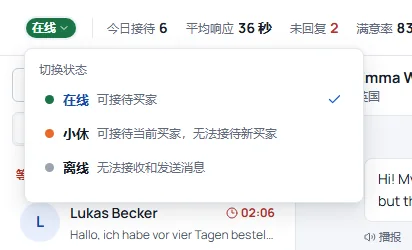
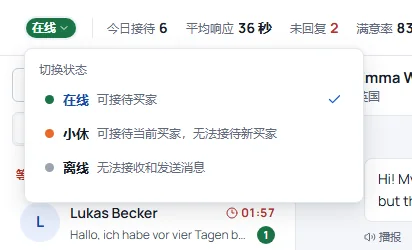
feat(工作台): 会话列表加未读提醒（D-96），修自由练习进线后聊天区空白
- 会话列表预览行右端、等待计时正下方显示绿色未读条数（买家发来还没看的消息）；
  正在看的不显示、点开清零，“最近联系”里不显示；侧栏角标和顶栏“未回复”不变
- 已读位置存云端：迁移 046 加 conversations.student_read_at（上线前的会话都算看过），
  GET /v1/conversations 每条返回 unreadCount，新增 POST /v1/conversations/:id/read；
  工作台正在看的会话在打开、聊天区多了买家消息时记已读，买家没回完不记
- 修自由练习进线：开场白在后台生成，新会话被自动打开时消息还没落库，生成完只刷新了列表，
  聊天区要等 15 秒轮询（计时在走、聊天区空白）；任务、自由练习进线改为共用 openInBackground，
  生成完这条会话开着就把开场白并进聊天区
- 使用帮助学生端改文字、重拍 4 张工作台截图；架构文档补变更记录
- 测试：API 215（新增未读用例）、前端 15、domain 46、contracts 9、desktop 4

Changed region(s): [[0.5534, 0.896, 0.6699, 0.98], [0.5825, 0.812, 0.6699, 0.868]]

diff --git a/docs/architecture.html b/docs/architecture.html
@@ -258,7 +258,7 @@ button.theme { background: var(--surface); color: var(--text); border: 1px solid
 <tr><td>auth</td><td>全部</td><td class="mono">auth/login · refresh · logout · change-password · me</td><td>登录、令牌轮换、改密</td></tr>
 <tr><td>classes</td><td>教师 / 管理员</td><td class="mono">classes · classes/:id/students(/import) · students/:id(PATCH/DELETE?confirm= · /reset-password) · classes/:id(DELETE?confirm=) · admin/teachers(POST · /:id DELETE?successorId=) · admin/classes/:id/teachers(PUT)</td><td>班级、学生导入/启停/改名/转班/删除/重置密码、新建教师、指定班主任与任课教师</td></tr>
 <tr><td>tasks</td><td>教师 / 学生</td><td class="mono">tasks · tasks/:id · student/tasks</td><td>任务新建下发、开放时间、学生任务列表</td></tr>
-<tr><td>conversations</td><td>学生</td><td class="mono">conversations · :id/opening · :id/reply · :id/messages · :id/close · :id/voice-messages · :id/asr · messages/:mid/tts · messages/:mid/translate · :id/cards · :id/attachment-messages · :id/orders · orders/:id/tool-cards · student/workbench-stats · student/guidance</td><td>买家对话主链路、语音、卡片、附件、翻译、工作台 KPI、教师指导通知；订单页工具卡片（付款提醒 / 物流通知）与会话结束后的短跟进（D-56）；邮件类场景开邮件会话（D-58）</td></tr>
+<tr><td>conversations</td><td>学生</td><td class="mono">conversations · :id/opening · :id/reply · :id/messages · :id/read · :id/close · :id/voice-messages · :id/asr · messages/:mid/tts · messages/:mid/translate · :id/cards · :id/attachment-messages · :id/orders · orders/:id/tool-cards · student/workbench-stats · student/guidance</td><td>买家对话主链路、语音、卡片、附件、翻译、工作台 KPI、教师指导通知；会话列表带未读数，<code>:id/read</code> 记已读（D-96）；订单页工具卡片（付款提醒 / 物流通知）与会话结束后的短跟进（D-56）；邮件类场景开邮件会话（D-58）</td></tr>
 <tr><td>orders</td><td>学生</td><td class="mono">student/orders · orders/:id · orders/:id/suggestions · student/reviews · student/assessments</td><td>订单与评价、AI 三版话术、成绩记录</td></tr>
 <tr><td>catalog</td><td>全部（按角色）</td><td class="mono">catalog/scenarios(PATCH 启停/剧本) · personas(/import) · phrases · my-phrases · forbidden-terms · mail-templates · store/products · store/coupons · mail/submissions · mail/assist · mail/replies</td><td>场景库、画像库、商品库、词库与话术、邮件实训</td></tr>
 <tr><td>teacher</td><td>教师 / 管理员</td><td class="mono">teacher/overview · tracking · conversations/:id/messages · conversations/:id/intervene · reports · assessments(/:id 逐维度复核)</td><td>数据总览、实时监控与介入、回放复核（逐维度改分、教师评语单独存）、考核报表</td></tr>
@@ -301,7 +301,7 @@ button.theme { background: var(--surface); color: var(--text); border: 1px solid
 <tr><th>领域</th><th>表</th><th>说明</th></tr>
 <tr><td>账号</td><td class="mono">users · classes · teacher_classes · refresh_tokens · login_failures · audit_log</td><td>users.role ∈ student/teacher/admin；学生 users.class_id 归属一个班；<b>班主任只记 classes.head_teacher_id，teacher_classes 只放任课教师</b>（两边不重复）；login_failures 记登录失败计数与锁定</td></tr>
 <tr><td>教学</td><td class="mono">tasks · task_classes · task_progress · scenarios · persona_templates · announcements · baseline_assessments</td><td>任务含 persona_rule、scoring_weights、time_limit_minutes、start_at、deadline</td></tr>
-<tr><td>实训</td><td class="mono">conversations · conversation_messages · orders · store_products · store_coupons · mail_submissions · mail_replies · student_phrases · review_replies · mail_drafts · read_marks</td><td>conversations.state（jsonb）存观察员评估结果（得分、满意度走势、情绪、阶段，含 studentTurns 计数；D-50 前的老会话还留着已弃用的 directive / memory）；conversations.persona 存画像快照（售前含 interestedProduct）；scenarios.script 存场景剧本；消息 kind 支持 text/voice/image/video/file/card，以及工具卡片 payment_reminder / logistics_update（D-56）和任务邮件 mail（D-58）；conversations.channel 区分聊天 / 邮件会话，service_rating 存买家服务评价 1–5 星（D-54，不是消息；D-90 起按买家走的原因限定区间），tool_followup 存工具跟进状态（卡片、开始、结束原因），buyer_ledger 存买家的两本账（D-90：来办的事、还能忍几次、每轮判断 judgements 带被判的学生消息 id、怎么走的 exit）；conversation_messages.buyer_note 存买家这一轮开头的判断（只给买家提示词用，接口不返回）</td></tr>
+<tr><td>实训</td><td class="mono">conversations · conversation_messages · orders · store_products · store_coupons · mail_submissions · mail_replies · student_phrases · review_replies · mail_drafts · read_marks</td><td>conversations.state（jsonb）存观察员评估结果（得分、满意度走势、情绪、阶段，含 studentTurns 计数；D-50 前的老会话还留着已弃用的 directive / memory）；conversations.persona 存画像快照（售前含 interestedProduct）；scenarios.script 存场景剧本；消息 kind 支持 text/voice/image/video/file/card，以及工具卡片 payment_reminder / logistics_update（D-56）和任务邮件 mail（D-58）；conversations.channel 区分聊天 / 邮件会话，service_rating 存买家服务评价 1–5 星（D-54，不是消息；D-90 起按买家走的原因限定区间），tool_followup 存工具跟进状态（卡片、开始、结束原因），student_read_at 存学生看到哪了（D-96：之后的买家消息算未读），buyer_ledger 存买家的两本账（D-90：来办的事、还能忍几次、每轮判断 judgements 带被判的学生消息 id、怎么走的 exit）；conversation_messages.buyer_note 存买家这一轮开头的判断（只给买家提示词用，接口不返回）</td></tr>
 <tr><td>评估与计量</td><td class="mono">assessments · conversation_metrics · voice_metrics · llm_usage</td><td>八项评分与评语（含 prompt_version、model、evidence；evidence 里留响应时效明细）；首字耗时、输出速度、语音耗时（ASR 记音频时长 audio_ms）用于验收报表；llm_usage 记每次模型调用的用途、档案、tokens、费用、结果、是否走备用</td></tr>
 <tr><td>配置</td><td class="mono">llm_profiles · app_settings · content_terms</td><td>llm_profiles 存模型档案（地址、加密 Key、模型、请求头/请求体、深度思考 thinking（开关、档位、该厂商的参数写法）、单价、测试结果、是否默认）；app_settings 存 llm_routing（用途分配、观察员频率）、voice（语音档案，Key 加密）、quota（月度金额/tokens 额度）、备份计划、brand（平台名称与标识）；content_terms 存违规词与标准话术</td></tr>
 </table></div>
@@ -312,7 +312,7 @@ button.theme { background: var(--surface); color: var(--text); border: 1px solid
 <tr><th>位置</th><th>内容</th><th>状态</th></tr>
 <tr><td>云端 PostgreSQL</td><td>账号、班级、任务、会话与消息、订单、评分、邮件、配置、审计、验收指标</td><td><span class="tag t-ok">已实现</span></td></tr>
 <tr><td>云端文件卷</td><td>商品图、语音消息、附件、TTS 缓存（uploads）；备份文件</td><td><span class="tag t-warn">部分</span> 备份目录未挂卷，未推送对象存储</td></tr>
-<tr><td>云端（2026-10-12 迁入）</td><td>差评回复记录、邮件草稿、邮件已读、指导通知已读</td><td><span class="tag t-ok">已实现</span> 旧版本存在本机的数据，学生首次进入页面时自动上传并删除本机副本</td></tr>
+<tr><td>云端（2026-10-12 迁入）</td><td>差评回复记录、邮件草稿、邮件已读、指导通知已读；会话已读位置（D-96，conversations.student_read_at）</td><td><span class="tag t-ok">已实现</span> 旧版本存在本机的数据，学生首次进入页面时自动上传并删除本机副本</td></tr>
 <tr><td>客户端本机（保留）</td><td>栏宽、自动翻译开关等界面偏好；登录令牌（改用 safeStorage）</td><td>—</td></tr>
 </table></div>
 
@@ -413,6 +413,8 @@ button.theme { background: var(--surface); color: var(--text); border: 1px solid
 <h2 id="changelog">12. 变更记录</h2>
 <div class="table-wrap"><table>
 <tr><th>日期</th><th>变更</th></tr>
+<tr><td>2026-10-23</td><td>修自由练习进线后聊天区空白（只改前端，无迁移、无接口变化）：自动进线的买家开场白在后台生成，手上没有别的会话时新会话会被自动打开；任务进线生成完会把开场白刷进开着的聊天区，自由练习进线只刷新了列表，聊天区要等 15 秒一次的消息轮询，期间列表已经显示买家的话、等待计时在走。两条进线路径改为共用 <code>LiveWorkbench</code> 的 <code>openInBackground</code>（生成完刷新列表；这条会话开着就拉消息、用 <code>mergeRows</code> 并进聊天区）。浏览器里用拦截接口模拟 2.5 秒生成核对：改前列表出现开场白 1.5 秒后聊天区仍为空、15 秒后才出现，改后同时出现；任务进线同样核过</td></tr>
+<tr><td>2026-10-23</td><td>工作台会话未读提醒（D-96）：迁移 046（conversations 加 <code>student_read_at</code>，上线前的会话都记为看过）。<code>GET /v1/conversations</code> 每条多返回 <code>unreadCount</code>（学生上次看之后买家发了几条，只数 sender = buyer）；新增 <code>POST /v1/conversations/:id/read</code>（只能标自己的会话，记为 now()）。前端：<code>LiveWorkbench</code> 正在看的会话在打开时、聊天区多了买家消息时记一次已读，买家流式回复没回完不记（服务端回完才落库）；标记完成前发出的列表请求带回的旧未读数按 0 算。<code>ConversationRail</code> 在预览行右端、等待计时正下方显示绿色数字（<code>.wbk-unread</code>，<code>--c-ok</code>），正在看的和“最近联系”里的不显示。侧栏工作台角标仍是“未回复”数。使用帮助学生端改文字并重拍 s-workbench、s-wb-product、s-wb-ended、s-wb-status，学生端 PDF 重新导出。测试：API 215、前端 15</td></tr>
 <tr><td>2026-10-23</td><td>手册 PDF 目录与页码（D-94，设计稿 docs/design/p27-manual-toc 的 C 版），只改前端：<code>HelpCenter.tsx</code> 的 <code>Book</code> 目录改为双栏（<code>.help-book-toc .cols</code>，每章一块），章、节都是 <code>&lt;a href="#help-book-…"&gt;</code>，整本里的章、节另用 <code>bookAnchor</code> 生成 id（和屏幕上那份的节 id 分开，免得重名）；Chromium 打印成 PDF 时变成内部链接。页码：目录和各章设命名页 <code>page: help-body</code>，<code>@page help-body { @bottom-center { content: counter(page) } }</code>（页边距盒，Electron 43 / Chromium 150 支持），封面不印。封面去掉“操作手册”小字和“本册内容”。用 <code>scripts/help_pdfs.cjs</code> 导出核对：三本目录各一页，链接 53 / 48 / 39 个都跳到有对应标题的那一页</td></tr>
 <tr><td>2026-10-23</td><td>使用帮助导出的 PDF 加封面（D-93，设计稿 docs/design/p26-manual-cover 的 B 版），只改前端：<code>HelpCenter.tsx</code> 的整本 <code>Book</code> 换成新封面（引用 <code>assets/login/scene.webp</code>，“本册内容”不列 start、faq 两章）；<code>help.css</code> 打印规则：封面用命名页 <code>page: help-cover</code> + <code>@page help-cover { margin: 0 }</code> 铺满整页（不用 <code>@page :first</code>，免得考核报表打印的第一页也没了边距），导出期间 <code>.shell-main</code> 改成块级（命名页套在 flex 里时 Chromium 会把这一页按 182/210 缩小、底下空一截）。用客户端同款 Electron（printToPDF，参数同 <code>cecs:save-pdf</code>）实测三本封面铺满、正文页边距 14mm 不变；导出脚本放在 kefu-weihu skill 的 <code>scripts/help_pdfs.cjs</code></td></tr>
 <tr><td>2026-10-23</td><td>修四处前后不一致（D-92），无迁移、无接口变化：① domain 新增 <code>DEFAULT_ARRIVAL_INTERVAL_MINUTES</code>（5）：“按间隔进线”没填分钟数时，服务端存库（<code>routes/tasks.ts</code>）、学生工作台计时、任务大厅和教师端显示都用它（任务大厅原来写死 3 分钟）。② 学生工作台离线时“按住说话”“快捷短语”和输入框一样不可用（都看 <code>composerDisabled</code>）。③ domain 新增 <code>reviewGrade</code> / <code>REVIEW_GRADE_LABELS</code>（4–5 星好评、3 星中评、1–2 星差评）：评价页的页签和订单详情的标签共用，订单详情原来把 3 星标成差评；评价回复的生成说明改称“中评、差评（3 星及以下）”。④ 教师实时监控的场景剧本直接用 contracts 的 <code>SCENARIO_SCRIPT_FIELDS</code>，字段名和场景配置一致（原来叫“买家想要 / 买家底线”）。使用帮助重拍 t-tracking。测试：domain 46、API 214、前端 15</td></tr>

diff --git a/apps/portal/src/pages/student/LiveWorkbench.tsx b/apps/portal/src/pages/student/LiveWorkbench.tsx
@@ -39,6 +39,7 @@ import {
   fetchStoreProfile,
   fetchStudentTasks,
   fetchWorkbenchStats,
+  markConversationRead,
   postConversationMessage,
   recognizeAudio,
   requestMessageTts,
@@ -310,6 +311,18 @@ export function LiveWorkbench({ session, initialTaskId }: { session: Session; in
     setJustEnded(apply);
   }, []);
 
+  /* 未读（D-96）：记到云端，会话列表的绿色数字跟着清零。
+     标记完成之前发出的列表请求，带回来的还是旧的未读数，到了一律按 0 算，免得切走后这条又冒出数字 */
+  const readDoneAt = useRef(new Map<string, number>());
+  const markRead = useCallback((cid: string) => {
+    void markConversationRead(session, cid)
+      .then(() => {
+        readDoneAt.current.set(cid, Date.now());
+        patchConversation(cid, { unreadCount: 0 });
+      })
+      .catch(() => undefined);
+  }, [session, patchConversation]);
+
   const loadStats = useCallback(() => {
     fetchWorkbenchStats(session).then(setStats).catch(() => undefined);
   }, [session]);
@@ -341,11 +354,12 @@ export function LiveWorkbench({ session, initialTaskId }: { session: Session; in
 
   const loadConversations = useCallback(async () => {
     try {
+      const requestedAt = Date.now();
       const [conversationList, taskList] = await Promise.all([
         fetchConversations(session),
         fetchStudentTasks(session),
       ]);
-      setConversations(conversationList);
+      setConversations(conversationList.map((item) => ((readDoneAt.current.get(item.id) ?? 0) > requestedAt ? { ...item, unreadCount: 0 } : item)));
       setTasks(taskList);
       // 买家回复了订单页的工具卡片：这位买家回到“接待中”，去掉本地的结束标记
       const revived = conversationList.filter((item) => followUpActive(item.toolFollowUp)).map((item) => item.id);
@@ -480,6 +494,18 @@ export function LiveWorkbench({ session, initialTaskId }: { session: Session; in
       cancelled = true;
     };
   }, [session, activeId]);
+
+  // 正在看的会话记已读（D-96）：打开时、聊天区多了买家消息时（轮询到的催促、流式回完的回复）各记一次。
+  // 买家这条还在流式生成时先不记：服务端回完才落库，早记了这几条会算成没看过
+  const readSeenRef = useRef({ cid: null as string | null, count: -1 });
+  useEffect(() => {
+    if (!activeId || messages === null || messagesCidRef.current !== activeId || buyerStreamingRef.current.has(activeId)) return;
+    const count = messages.filter((item) => item.sender === "buyer").length;
+    const seen = readSeenRef.current;
+    if (seen.cid === activeId && seen.count === count) return;
+    readSeenRef.current = { cid: activeId, count };
+    markRead(activeId);
+  }, [activeId, messages, streamingText, markRead]);
 
   // 当前买家的全部订单（关联订单 + 历史订单）
   useEffect(() => {
@@ -726,6 +752,30 @@ export function LiveWorkbench({ session, initialTaskId }: { session: Session; in
       arrivalBusyRef.current.delete(taskId);
       setBusy(false);
     }
+  }
+
+  /**
+   * 自动进线的买家（任务、自由练习共用）：后台生成开场白，不抢当前聊天焦点，落库后列表出现这句话和等待计时。
+   * 这条会话已经开着时（手上没有别的会话，新买家会自动打开；或学生先点开了），开场白同时刷进聊天区，
+   * 不然要等 15 秒一次的消息轮询：计时在走，聊天区却是空的
+   */
+  function openInBackground(cid: string) {
+    openingRequested.current.add(cid);
+    void streamConversationOpening(session, cid, {
+      onDelta: () => undefined,
+      onDone: () => {
+        void loadConversations();
+        if (activeIdRef.current !== cid) return;
+        fetchConversationMessages(session, cid)
+          .then((rows) => {
+            if (activeIdRef.current === cid) setMessages((current) => mergeRows(current, rows));
+          })
+          .catch(() => undefined);
+      },
+      onError: () => {
+        openingRequested.current.delete(cid);
+      },
+    }).catch(() => openingRequested.current.delete(cid));
   }
 
   /** 正在生成买家回复的会话：学生照常打字、发文字，只是下一次买家回复要等这一条生成完 */
@@ -1213,25 +1263,7 @@ export function LiveWorkbench({ session, initialTaskId }: { session: Session; in
       arrivalBusyRef.current.add(task.id);
       try {
         const created = await createConversation(session, scenarioId ? { taskId: task.id, scenarioId } : { taskId: task.id });
-        // 后台生成买家开场消息（不抢当前聊天焦点），落库后列表出现未读红点与等待时长
-        openingRequested.current.add(created.id);
-        void streamConversationOpening(session, created.id, {
-          onDelta: () => undefined,
-          onDone: () => {
-            void loadConversations();
-            // 学生已提前点开这条会话：同步把刚生成的开场消息刷进聊天区
-            if (activeIdRef.current === created.id) {
-              fetchConversationMessages(session, created.id)
-                .then((rows) => {
-                  if (activeIdRef.current === created.id) setMessages(rows);
-                })
-                .catch(() => undefined);
-            }
-          },
-          onError: () => {
-            openingRequested.current.delete(created.id);
-          },
-        });
+        openInBackground(created.id);
         await loadConversations();
       } catch (cause) {
         if (cause instanceof ApiError && cause.code === "TASK_CLOSED") {
@@ -1324,12 +1356,7 @@ export function LiveWorkbench({ session, initialTaskId }: { session: Session; in
       void createConversation(session, { scenarioId })
         .then((created) => {
           bumpPractice();
-          openingRequested.current.add(created.id);
-          void streamConversationOpening(session, created.id, {
-            onDelta: () => undefined,
-            onDone: () => void loadConversations(),
-            onError: () => openingRequested.current.delete(created.id),
-          });
+          openInBackground(created.id);
           return loadConversations();
         })
         .catch(() => { practiceNotBeforeRef.current = Date.now() + 60_000; })

diff --git a/apps/api/src/routes/conversations.ts b/apps/api/src/routes/conversations.ts
@@ -822,7 +822,10 @@ export function registerConversationRoutes(
                 lm.content as last_content, lm.sender as last_sender, lm.created_at as last_at,
                 (select count(*) from conversation_messages mv
                  where mv.conversation_id = c.id and mv.sender = 'buyer'
-                   and mv.created_at > now() - interval '72 hours') as visits72
+                   and mv.created_at > now() - interval '72 hours') as visits72,
+                (select count(*) from conversation_messages mu
+                 where mu.conversation_id = c.id and mu.sender = 'buyer'
+                   and mu.created_at > coalesce(c.student_read_at, '-infinity'::timestamptz)) as unread
          from conversations c
          left join scenarios s on s.id = c.scenario_id
          left join orders o on o.conversation_id = c.id and o.is_primary
@@ -864,6 +867,8 @@ export function registerConversationRoutes(
           ? { content: row.last_content, sender: row.last_sender, createdAt: row.last_at }
           : null,
         unreplied: row.last_sender === "buyer",
+        /* 未读（D-96）：学生上次看这条会话之后，买家又发了几条 */
+        unreadCount: Number(row.unread ?? 0),
         visits72h: Number(row.visits72 ?? 0),
         createdAt: row.created_at,
         closedAt: row.closed_at ?? null,
@@ -1651,6 +1656,23 @@ export function registerConversationRoutes(
         translation: row.translated_content ?? undefined,
         createdAt: row.created_at,
       }));
+    },
+  );
+
+  // 已读（D-96）：工作台正在看这条会话，买家到现在为止的消息记为看过，会话列表的未读数清零
+  app.post<{ Params: { conversationId: string } }>(
+    "/v1/conversations/:conversationId/read",
+    { preHandler: guard.requireRole("student") },
+    async (request, reply) => {
+      const result = await db.query(
+        "update conversations set student_read_at = now() where id = $1 and student_id = $2",
+        [request.params.conversationId, request.user!.sub],
+      );
+      if (!result.rowCount) {
+        reply.code(403);
+        return { code: "FORBIDDEN", message: "无权操作该会话。" };
+      }
+      return { ok: true };
     },
   );
 

diff --git a/apps/api/src/stage1.test.ts b/apps/api/src/stage1.test.ts
@@ -1780,6 +1780,28 @@ describe("学生端改版：店铺资料、系统客户标签与客服标记（C
     expect(persona.storeName).toBe("Nova Shop");
   });
 
+  it("D-96 会话未读：买家消息计未读，学生看过清零，之后再来的重新计；只能标自己的会话", async () => {
+    const id = (await app.inject({ method: "POST", url: "/v1/conversations", headers: auth(student), payload: { scenarioId: "IN-002" } })).json().id as string;
+    const unread = async () =>
+      ((await app.inject({ method: "GET", url: "/v1/conversations", headers: auth(student) })).json() as Array<Record<string, unknown>>)
+        .find((item) => item.id === id)!.unreadCount;
+    expect(await unread()).toBe(0);
+    await db.query("insert into conversation_messages (conversation_id, sender, content) values ($1, 'buyer', 'Hi'), ($1, 'buyer', 'Anyone there?')", [id]);
+    expect(await unread()).toBe(2);
+    expect((await app.inject({ method: "POST", url: `/v1/conversations/${id}/read`, headers: auth(student) })).statusCode).toBe(200);
+    expect(await unread()).toBe(0);
+    // 客服自己的消息不算；之后买家再发的重新计（时间往后拨一秒，免得和已读时间落在同一时刻）
+    await db.query(
+      `insert into conversation_messages (conversation_id, sender, content, created_at)
+       values ($1, 'student', 'Hello!', now() + interval '1 second'), ($1, 'buyer', 'Where is my parcel?', now() + interval '1 second')`,
+      [id],
+    );
+    expect(await unread()).toBe(1);
+    const missing = await app.inject({ method: "POST", url: "/v1/conversations/00000000-0000-4000-8000-000000000000/read", headers: auth(student) });
+    expect(missing.statusCode).toBe(403);
+    expect((await app.inject({ method: "POST", url: `/v1/conversations/${id}/read`, headers: auth(teacher) })).statusCode).toBe(403);
+  });
+
   it("关键数字：已完成任务、班级排名、累计对话", async () => {
     const summary = await app.inject({ method: "GET", url: "/v1/student/summary", headers: auth(student) });
     expect(summary.statusCode).toBe(200);

diff --git a/apps/portal/src/pages/help/content/student.tsx b/apps/portal/src/pages/help/content/student.tsx
@@ -152,7 +152,7 @@ export const studentManual: HelpManual = {
                 ["今日数据", "今日接待、平均响应、未回复、满意率，点 ˅ 看更多"],
                 ["任务条", "这位买家属于哪个任务、做到第几个，点开看任务要求"],
                 ["剩余时间", "这一次接待还剩多久，老师设了限时才显示"],
-                ["会话列表", "“等你回复”排在最前，红色计时是买家已经等了多久"],
+                ["会话列表", "“等你回复”排在最前，红色计时是买家已经等了多久，绿色数字是还没看的新消息"],
                 ["聊天区", "买家消息下点“播报”听原声，点“翻译”看中文"],
                 ["输入区", "表情、图片、视频、文件、快捷短语、译成买家语言、按住说话"],
                 ["待跟进、结束会话", "鼠标移上去有说明"],
@@ -169,7 +169,7 @@ export const studentManual: HelpManual = {
             <>
               <Steps>
                 <li>在任务大厅点任务的“进入工作台”。第一位买家进线，先发来消息，聊天区出现“会话已分配给你”。</li>
-                <li>在会话列表点开买家。等得最久的排在最前，计时超过半分钟变橙、超过 1 分钟变红。</li>
+                <li>在会话列表点开买家。等得最久的排在最前，计时超过半分钟变橙、超过 1 分钟变红。买家发来你还没看的消息时，计时下面亮绿色数字（几条没看），点开就消失。</li>
                 <li>读完买家的消息。看不懂点“翻译”，想听原声点“播报”。</li>
                 <li>在输入框写回复，按 <Kbd>Enter</Kbd> 发送，<Kbd>Shift</Kbd> + <Kbd>Enter</Kbd> 换行。可以先写中文，再点“译成英语”换成买家的语言。</li>
                 <li>要报商品参数、发优惠券或订单时，在右栏查好，点“发送”发出卡片。</li>

diff --git a/apps/portal/src/pages/student/workbench/ConversationRail.tsx b/apps/portal/src/pages/student/workbench/ConversationRail.tsx
@@ -54,6 +54,8 @@ export function ConversationRail({ tab, onTab, search, onSearch, active, justEnd
     const lastAt = item.lastMessage?.createdAt ?? item.createdAt;
     const waitedSeconds = Math.max(0, Math.floor((now - new Date(lastAt).getTime()) / 1000));
     const wTone = waitedSeconds > 60 ? "is-red" : waitedSeconds > 30 ? "is-orange" : "";
+    // 未读（D-96）：正在看的这条和“最近联系”里的不显示
+    const unread = kind !== "recent" && item.id !== activeId ? item.unreadCount ?? 0 : 0;
     return (
       <button key={item.id} type="button" className={item.id === activeId ? "wbk-qi is-on" : "wbk-qi"} onClick={() => onPick(item.id)}>
         <Av buyer={item.buyer} size={40} />
@@ -66,8 +68,11 @@ export function ConversationRail({ tab, onTab, search, onSearch, active, justEnd
               <span className="wbk-wait is-gray">{listTimeLabel(lastAt)}</span>
             )}
           </span>
-          <span className={typing ? "wbk-qi-l2 is-typing" : "wbk-qi-l2"}>
-            {typing ? "对方正在输入…" : item.lastMessage ? item.lastMessage.content : "买家刚进线…"}
+          <span className="wbk-qi-l2">
+            <span className={typing ? "wbk-qi-text is-typing" : "wbk-qi-text"}>
+              {typing ? "对方正在输入…" : item.lastMessage ? item.lastMessage.content : "买家刚进线…"}
+            </span>
+            {unread > 0 ? <span className="wbk-unread" aria-label={`${unread} 条新消息`}>{unread > 99 ? "99+" : unread}</span> : null}
           </span>
           {/* 会话列表不放客户标签：标签在右栏客户资料里看 */}
         </span>

diff --git a/apps/portal/src/api/client.ts b/apps/portal/src/api/client.ts
@@ -474,6 +474,8 @@ export interface ConversationSummary {
   status?: string;
   lastMessage?: { content: string; sender: string; createdAt: string } | null;
   unreplied?: boolean;
+  /** 未读（D-96）：上次看这条会话之后买家又发了几条，会话列表显示绿色数字 */
+  unreadCount?: number;
   visits72h?: number;
   createdAt: string;
   /** 系统客户标签（按订单规则计算，只读）：粉丝 / 大订单客户 / 普通客户 / 沉睡客户 / 新客 */
@@ -710,6 +712,9 @@ export const fetchConversations = (session: Session, status: "active" | "closed"
 /** closedAt 是服务端记的结束时间（老服务端没有），结束提示按它画在消息流里 */
 export const closeConversation = (session: Session, conversationId: string) =>
   apiPost<{ ok: boolean; closedAt?: string }>(`/v1/conversations/${conversationId}/close`, session);
+/** 正在看这条会话：买家到现在为止的消息记为已读（D-96，存云端） */
+export const markConversationRead = (session: Session, conversationId: string) =>
+  apiPost<{ ok: boolean }>(`/v1/conversations/${conversationId}/read`, session);
 export const translateMessage = (session: Session, conversationId: string, messageId: string) =>
   apiPost<{ translation: string }>(
     `/v1/conversations/${conversationId}/messages/${messageId}/translate`,

diff --git a/apps/portal/src/styles/student-workbench.css b/apps/portal/src/styles/student-workbench.css
@@ -109,8 +109,11 @@
 .wbk-wait.is-red { color: var(--c-danger); font-weight: 700; }
 .wbk-wait.is-gray { font-weight: 500; }
 .wbk-wait svg { width: 12px; height: 12px; }
-.wbk-qi-l2 { overflow: hidden; text-overflow: ellipsis; white-space: nowrap; font-size: 12px; color: var(--c-ink-2); line-height: 20px; }
-.wbk-qi-l2.is-typing { color: var(--c-brand-ink); }
+.wbk-qi-l2 { display: flex; align-items: center; gap: 8px; font-size: 12px; color: var(--c-ink-2); line-height: 20px; }
+.wbk-qi-text { flex: 1; min-width: 0; overflow: hidden; text-overflow: ellipsis; white-space: nowrap; }
+.wbk-qi-text.is-typing { color: var(--c-brand-ink); }
+/* 未读条数（D-96）：绿底白字，排在等待计时正下方 */
+.wbk-unread { flex: none; min-width: 18px; height: 18px; padding: 0 5px; border-radius: 9px; background: var(--c-ok); color: #fff; font-size: 11px; font-weight: 700; line-height: 18px; text-align: center; font-variant-numeric: tabular-nums; }
 .wbk-qi-l3 { display: flex; gap: 4px; margin-top: 4px; flex-wrap: wrap; }
 .wbk-ql-empty { margin: 0; padding: 28px 20px; text-align: center; font-size: 13px; color: var(--c-ink-3); }
 .wbk-queue { display: flex; align-items: center; gap: 8px; padding: 12px 16px; border-top: 1px solid var(--c-line); font-size: 12px; color: var(--c-ink-3); }

diff --git a/apps/api/src/migrations.ts b/apps/api/src/migrations.ts
@@ -722,4 +722,13 @@ alter table conversation_messages add column if not exists buyer_note text;
 alter table refresh_tokens add column if not exists rotated_at timestamptz;
 `,
   },
+  {
+    /* D-96 会话未读：学生看到哪了。之后的买家消息算未读，工作台会话列表显示绿色数字。
+       已读位置存云端（机房换机器、还原卡也对得上）；上线前的会话都算看过 */
+    id: "046_conversation_read",
+    sql: `
+alter table conversations add column if not exists student_read_at timestamptz;
+update conversations set student_read_at = now() where student_read_at is null;
+`,
+  },
 ];
